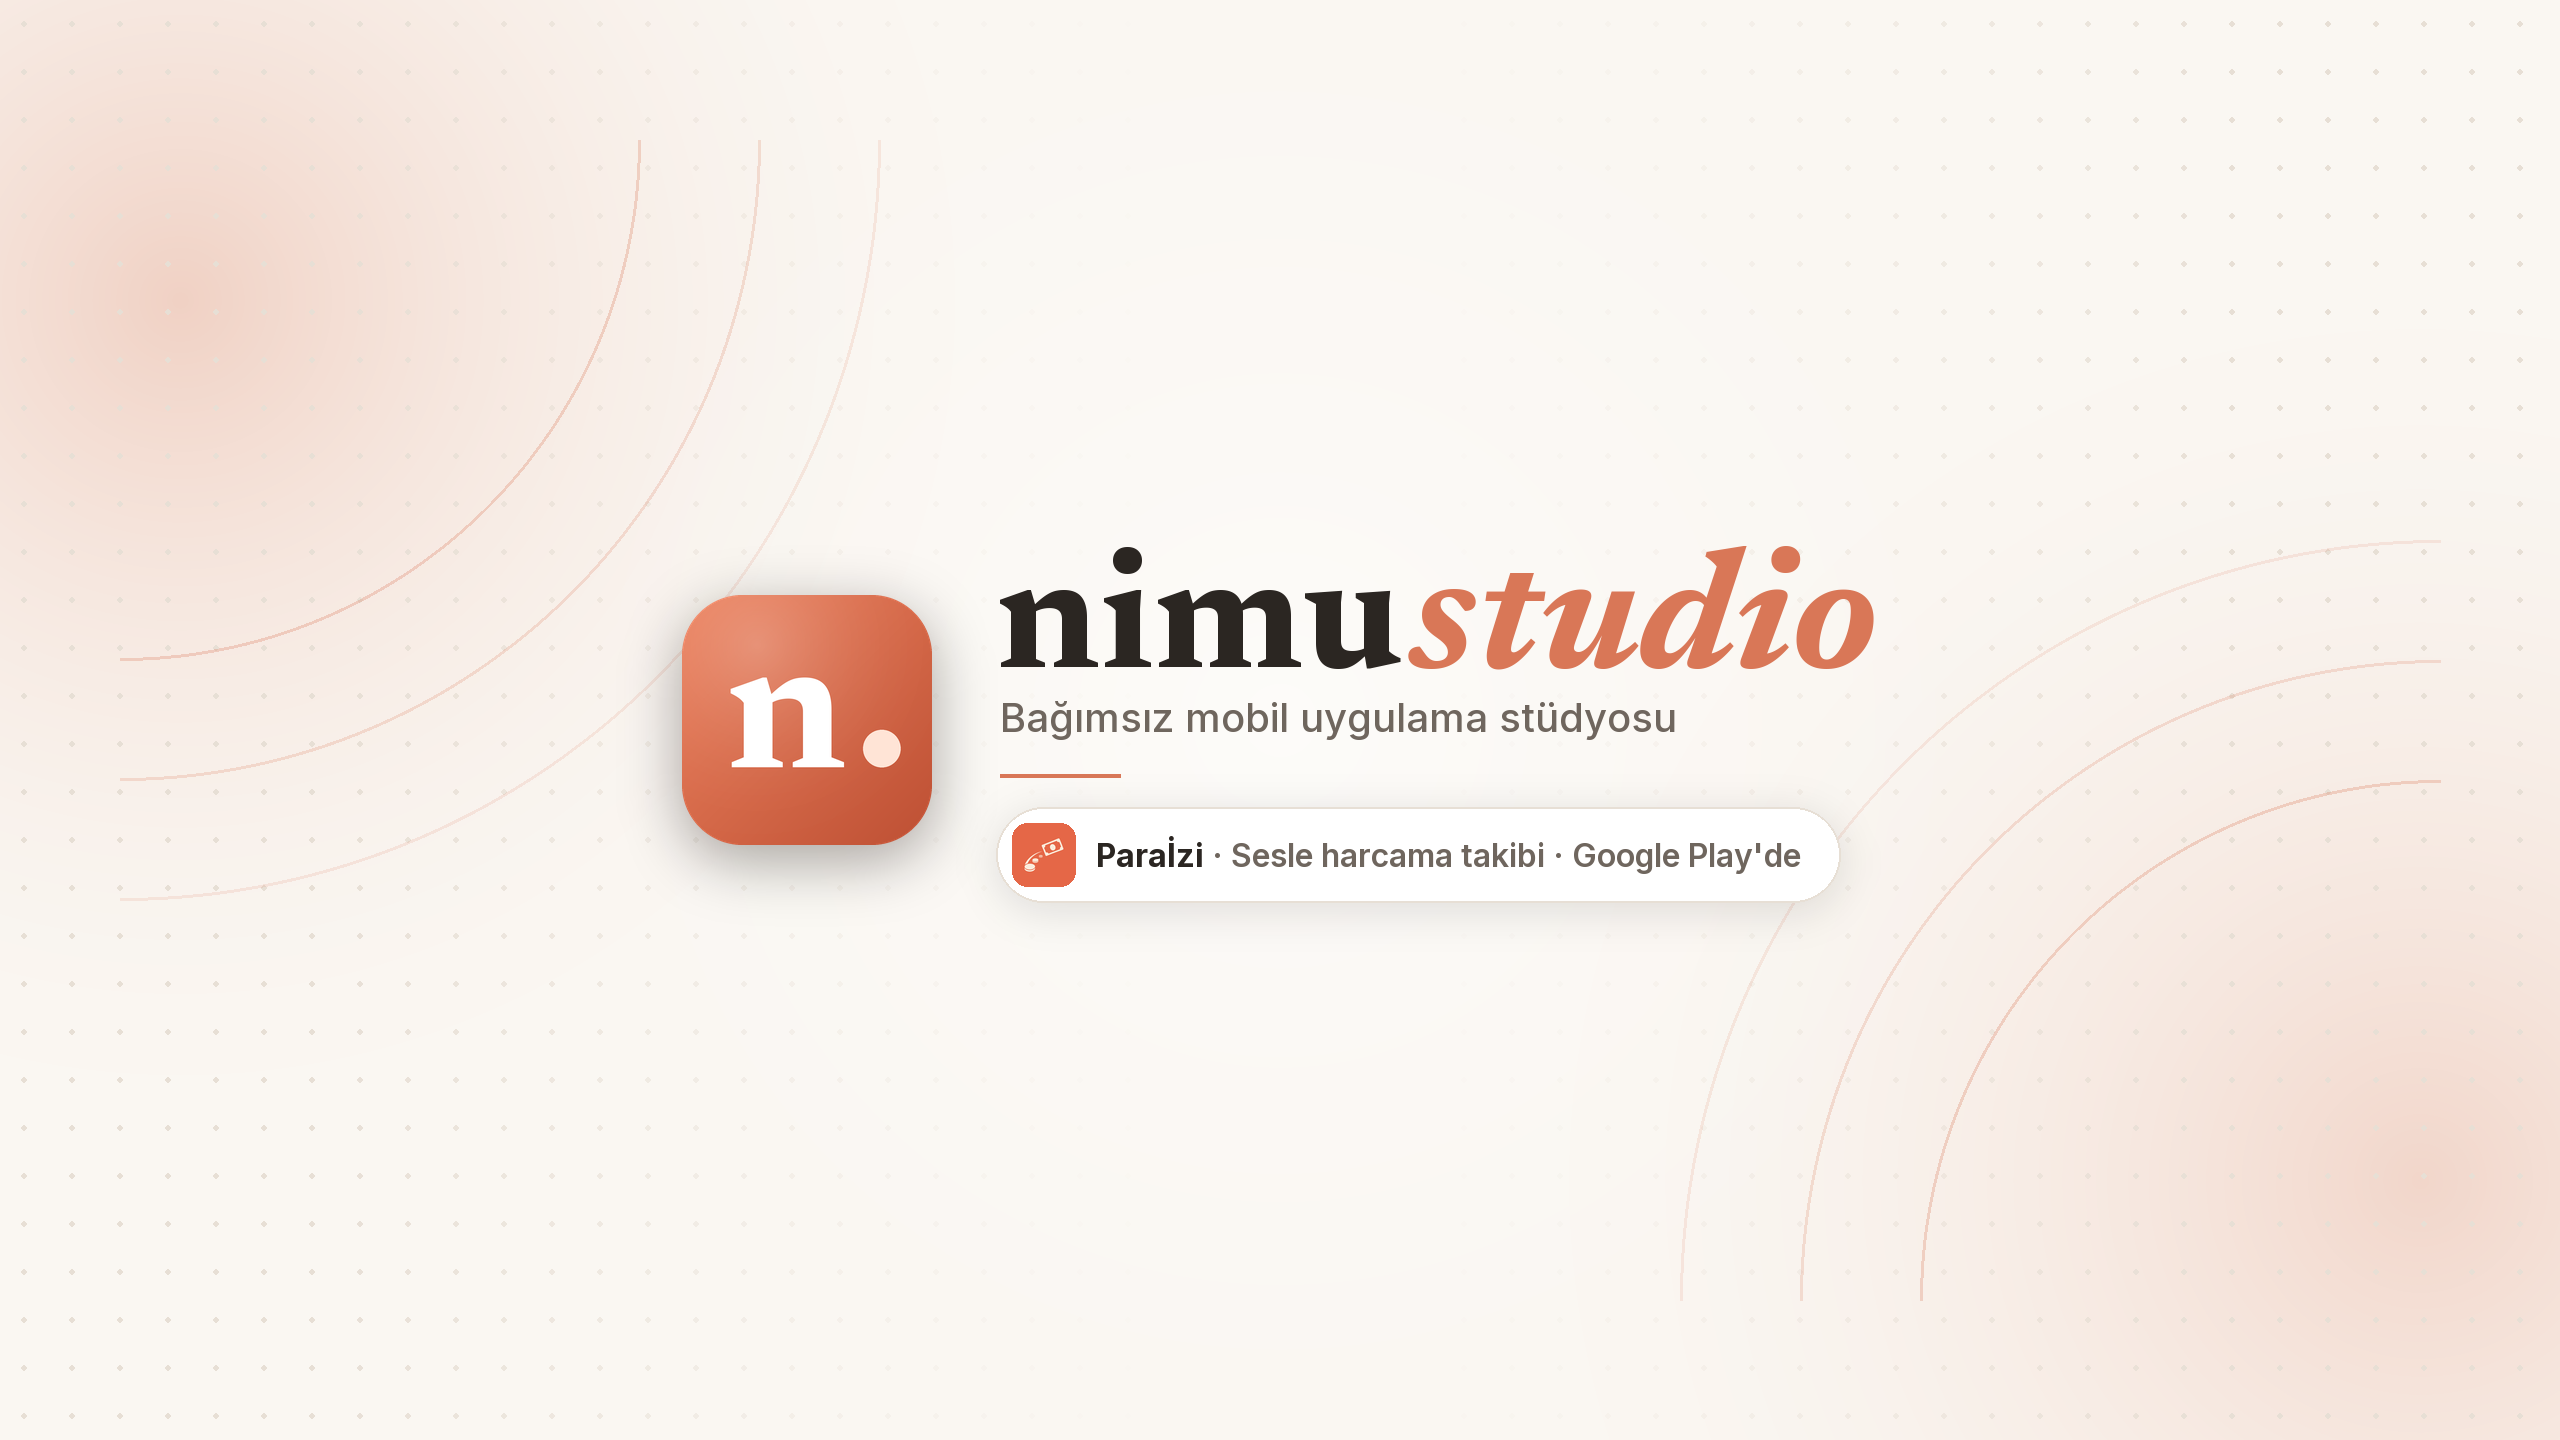
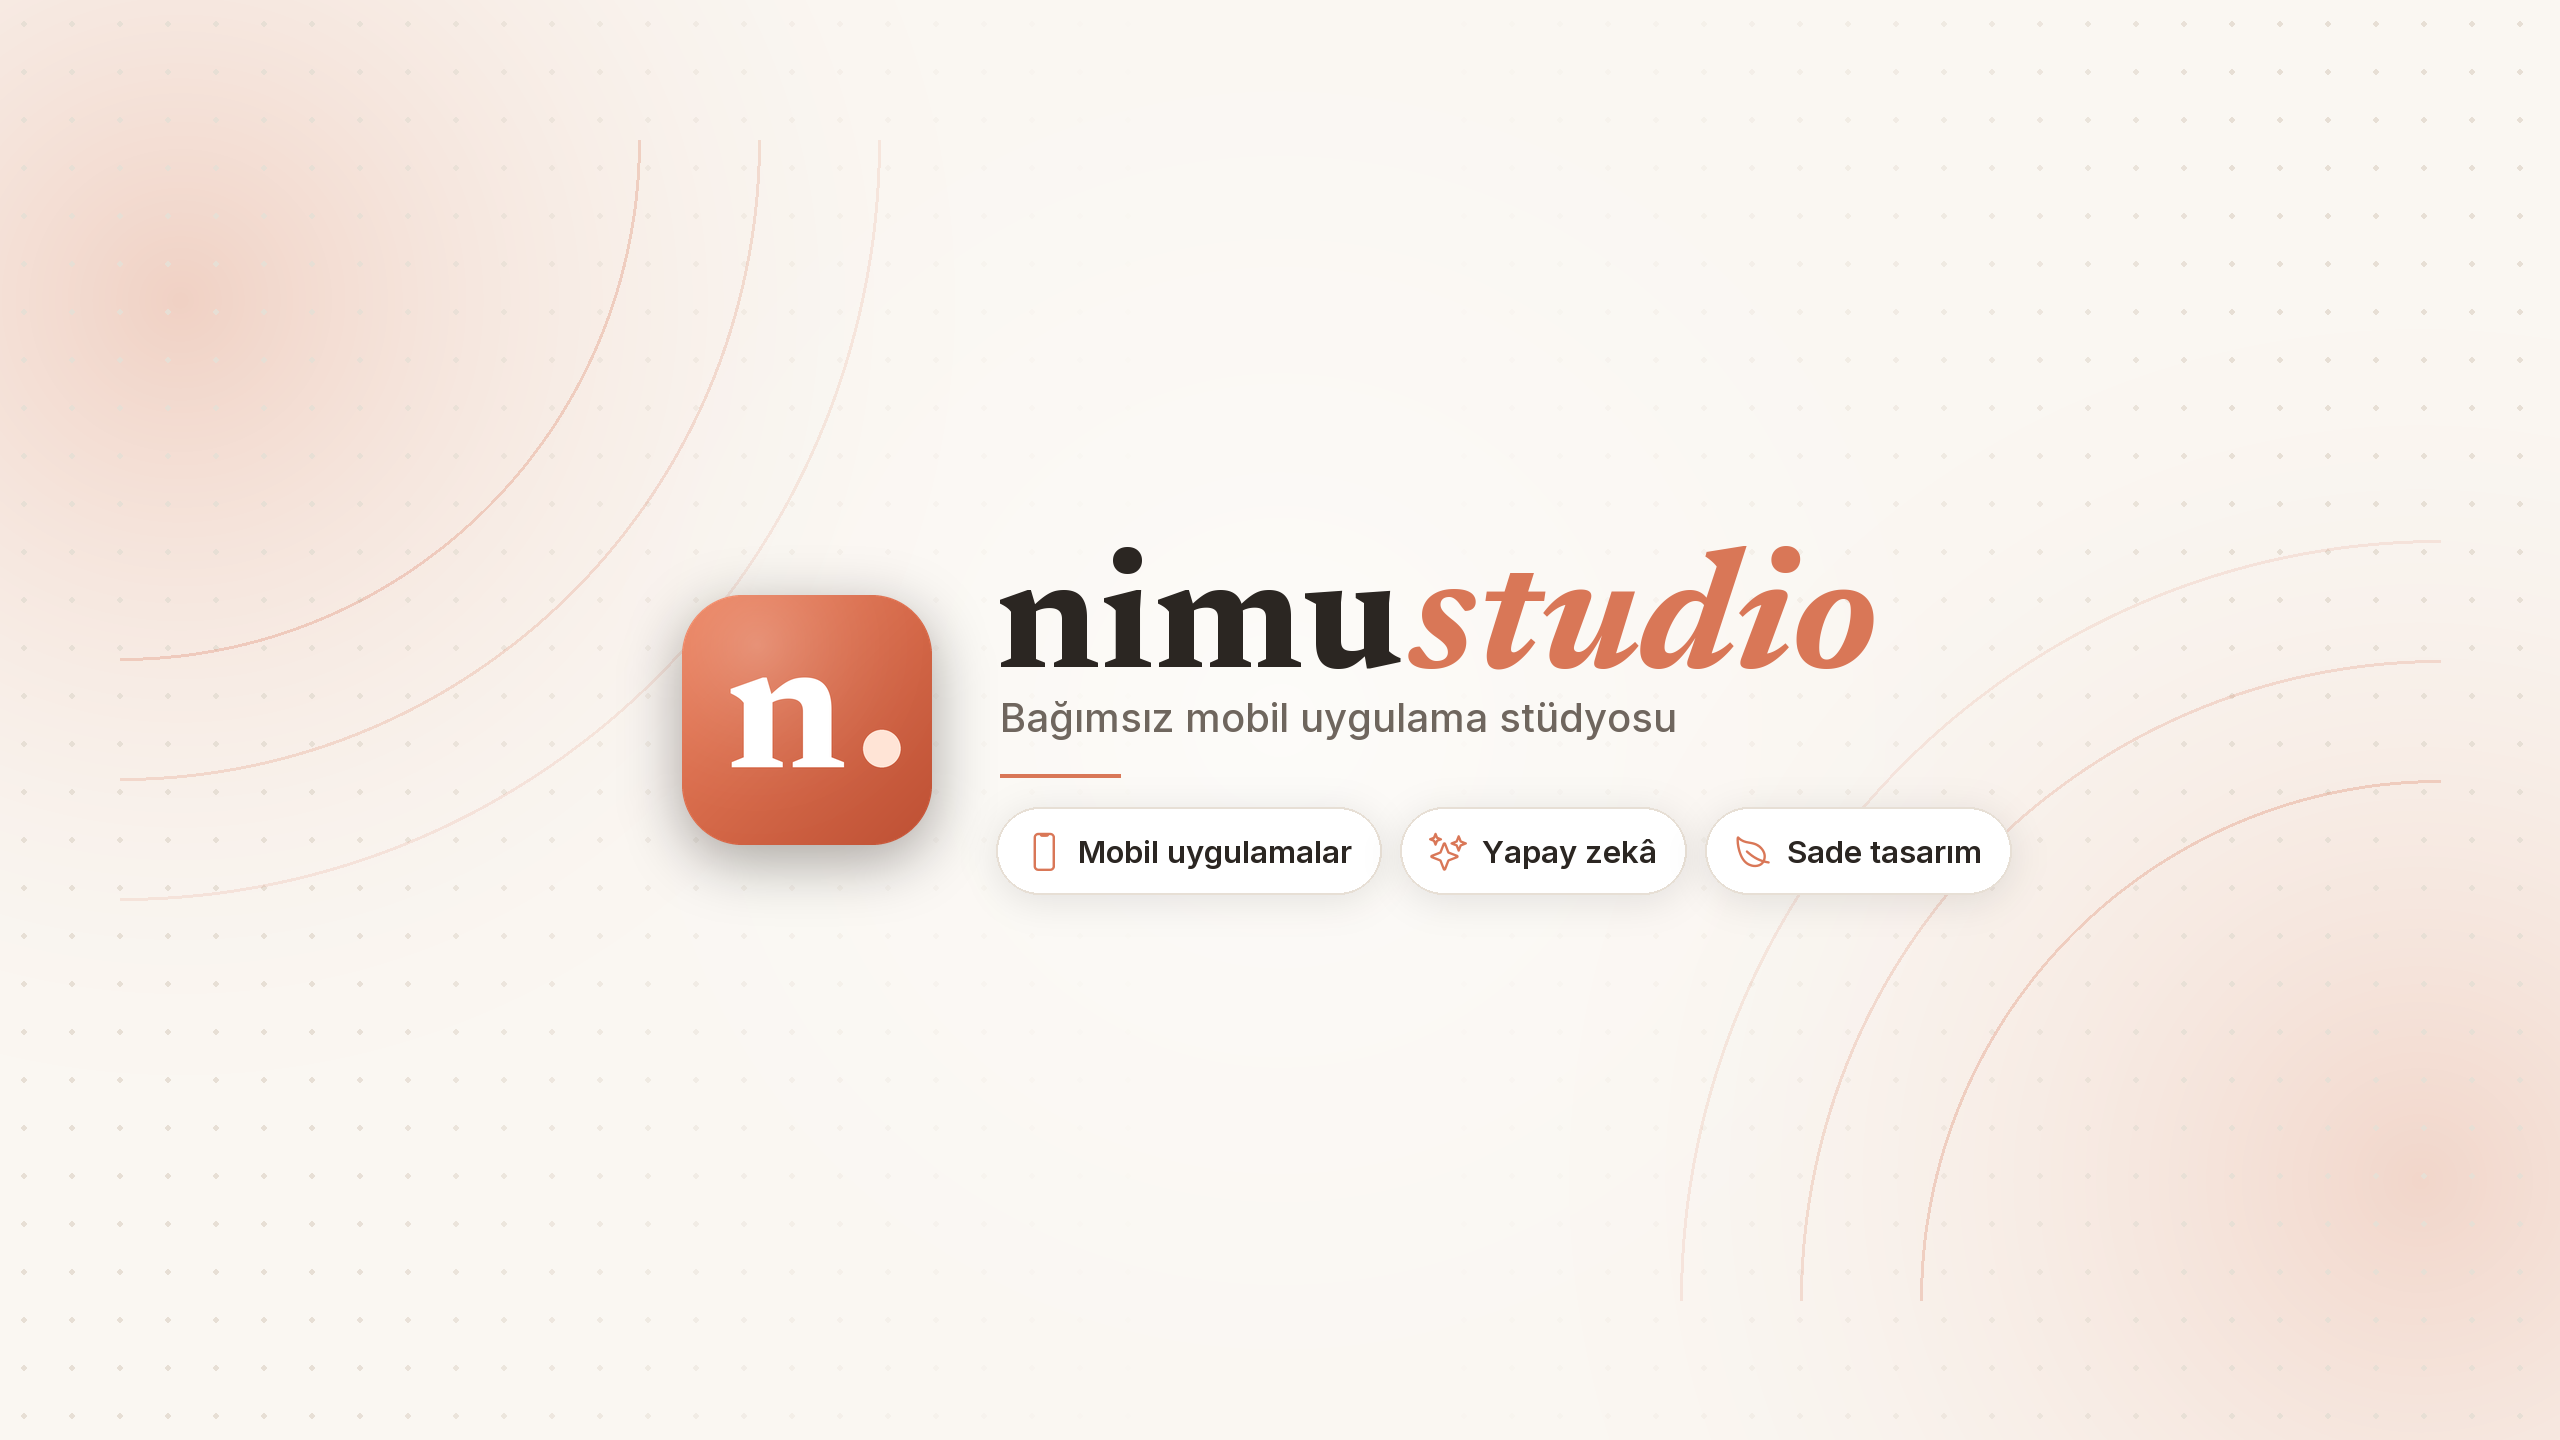
YouTube kapağı: Paraİzi rozeti yerine genel stüdyo etiketleri (Mobil uygulamalar · Yapay zekâ · Sade tasarım)
Claude-Session: https://claude.ai/code/session_01DHpTQJ2GvvbTb2SL4nd3xL

Changed region(s): [[0.375, 0.5625, 0.7812, 0.625]]

diff --git a/scripts/nimu_youtube.py b/scripts/nimu_youtube.py
@@ -10,6 +10,7 @@ fontlar uygulamanınkiler (Newsreader başlık, Inter metin).
 """
 from __future__ import annotations
 
+import json
 from pathlib import Path
 
 import numpy as np
@@ -98,6 +99,29 @@ def golge(im: Image.Image, bulanik: int, kuvvet: float, dy: int) -> Image.Image:
     return out
 
 
+_IKON = KOK / "mobile/node_modules/@expo/vector-icons/build/vendor/react-native-vector-icons"
+_GLIF = json.loads((_IKON / "glyphmaps/Ionicons.json").read_text())
+ETIKETLER = [
+    ("phone-portrait-outline", "Mobil uygulamalar"),
+    ("sparkles-outline", "Yapay zekâ"),
+    ("leaf-outline", "Sade tasarım"),
+]
+
+
+def etiket(ik: str, yazi: str) -> Image.Image:
+    """Beyaz hap: turuncu Ionicons simgesi + metin. RGBA."""
+    f = font("sans", "600SemiBold", 31)
+    fi = ImageFont.truetype(str(_IKON / "Fonts/Ionicons.ttf"), 38)
+    olc = ImageDraw.Draw(Image.new("RGBA", (1, 1)))
+    w = int(28 + 40 + 14 + olc.textlength(yazi, font=f) + 30)
+    im = Image.new("RGBA", (w, 88), (0, 0, 0, 0))
+    d = ImageDraw.Draw(im)
+    d.rounded_rectangle([0, 0, w - 1, 87], 44, fill=(255, 255, 255, 255), outline=CIZGI + (255,), width=2)
+    d.text((28 + 20, 44), chr(_GLIF[ik]), font=fi, fill=VURGU, anchor="mm")
+    d.text((28 + 40 + 14, 44), yazi, font=f, fill=KOYU, anchor="lm")
+    return im
+
+
 # ------------------------------------------------------------------ kapak
 def kapak() -> Image.Image:
     W, H = 2560, 1440
@@ -128,8 +152,6 @@ def kapak() -> Image.Image:
     f_nimu = font("serif", "700Bold", 168)
     f_studio = font("serif", "700Bold_Italic", 168)
     f_alt = font("sans", "500Medium", 40)
-    f_rozet = font("sans", "600SemiBold", 32)
-    f_rozet_b = font("sans", "700Bold", 32)
 
     mono = golge(monogram(250), 28, 0.35, 16)
     w_nimu = d.textlength("nimu", font=f_nimu)
@@ -139,7 +161,7 @@ def kapak() -> Image.Image:
     grup_w = 250 + bosluk + w_kelime
     x0 = round(1280 - grup_w / 2)
     # dikey: kelime + alt yazı + rozet bloğu ~ 330 px, ortada
-    # blok: kelime üstü (taban-130) … rozet altı (taban+236) = 366 px → güvenli alanın (423) ortasında
+    # blok: kelime üstü (taban-130) … etiket altı (taban+228) = 358 px → güvenli alanın (423) ortasında
     taban = 720 - 183 + 130
     im.alpha_composite(mono, (x0 - mono.info["pay"], 720 - 125 - mono.info["pay"]))
     tx = x0 + 250 + bosluk
@@ -149,22 +171,14 @@ def kapak() -> Image.Image:
     d.text((tx + 4, taban + 34), "Bağımsız mobil uygulama stüdyosu", font=f_alt, fill=SOLUK, anchor="lt")
     # ince ayraç
     d.line([(tx + 4, taban + 108), (tx + 4 + 120, taban + 108)], fill=VURGU, width=4)
-    # Paraİzi rozeti
+    # stüdyo etiketleri (tek uygulamaya bağlı değil)
     ry = taban + 140
-    simge = Image.open(KOK / "docs/magaza-gorselleri/icon-512.png").convert("RGBA").resize((64, 64), Image.LANCZOS)
-    sm = Image.new("L", (64, 64), 0)
-    ImageDraw.Draw(sm).rounded_rectangle([0, 0, 63, 63], 15, fill=255)
-    simge.putalpha(sm)
-    metin1, metin2 = "Paraİzi", " · Sesle harcama takibi · Google Play'de"
-    rw = 64 + 20 + d.textlength(metin1, font=f_rozet_b) + d.textlength(metin2, font=f_rozet) + 56
-    rozet = Image.new("RGBA", (int(rw), 96), (0, 0, 0, 0))
-    rd = ImageDraw.Draw(rozet)
-    rd.rounded_rectangle([0, 0, rozet.width - 1, 95], 48, fill=(255, 255, 255, 255), outline=CIZGI + (255,), width=2)
-    rozet.alpha_composite(simge, (16, 16))
-    rd.text((16 + 64 + 20, 48), metin1, font=f_rozet_b, fill=KOYU, anchor="lm")
-    rd.text((16 + 64 + 20 + d.textlength(metin1, font=f_rozet_b), 48), metin2, font=f_rozet, fill=SOLUK, anchor="lm")
-    rz = golge(rozet, 20, 0.12, 8)
-    im.alpha_composite(rz, (int(tx) - rz.info["pay"], int(ry) - rz.info["pay"]))
+    x = tx
+    for ik, yazi in ETIKETLER:
+        cip = etiket(ik, yazi)
+        cg = golge(cip, 18, 0.10, 6)
+        im.alpha_composite(cg, (int(x) - cg.info["pay"], int(ry) - cg.info["pay"]))
+        x += cip.width + 18
     return im.convert("RGB")
 
 
